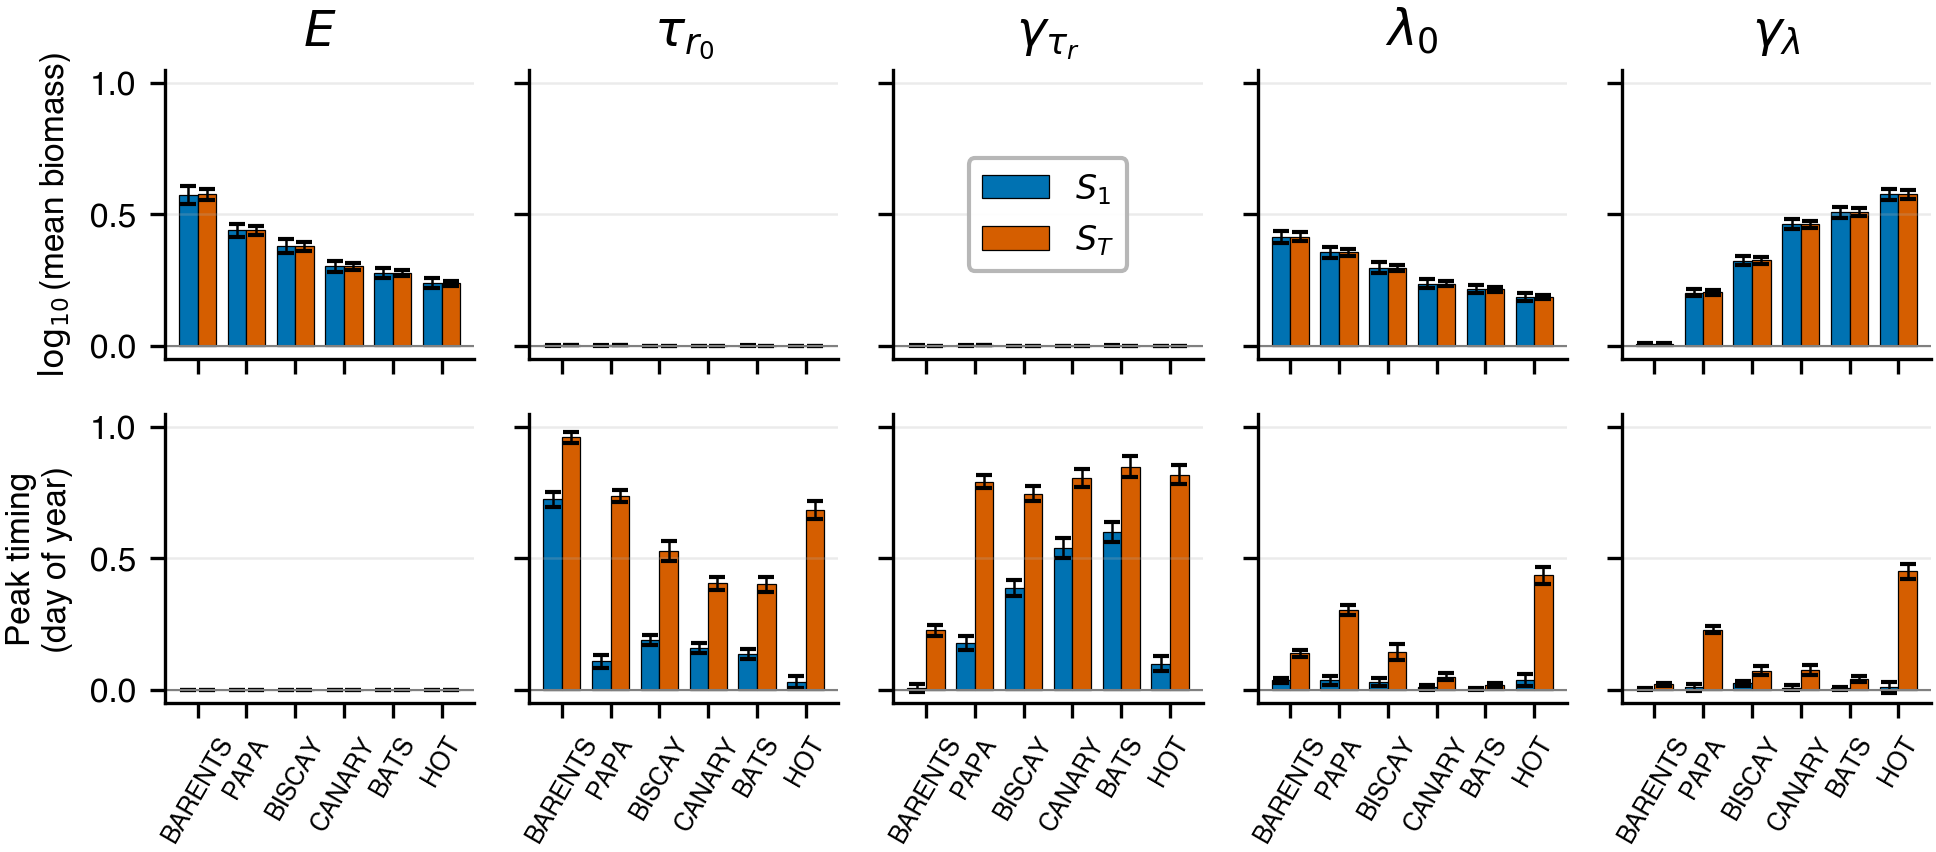
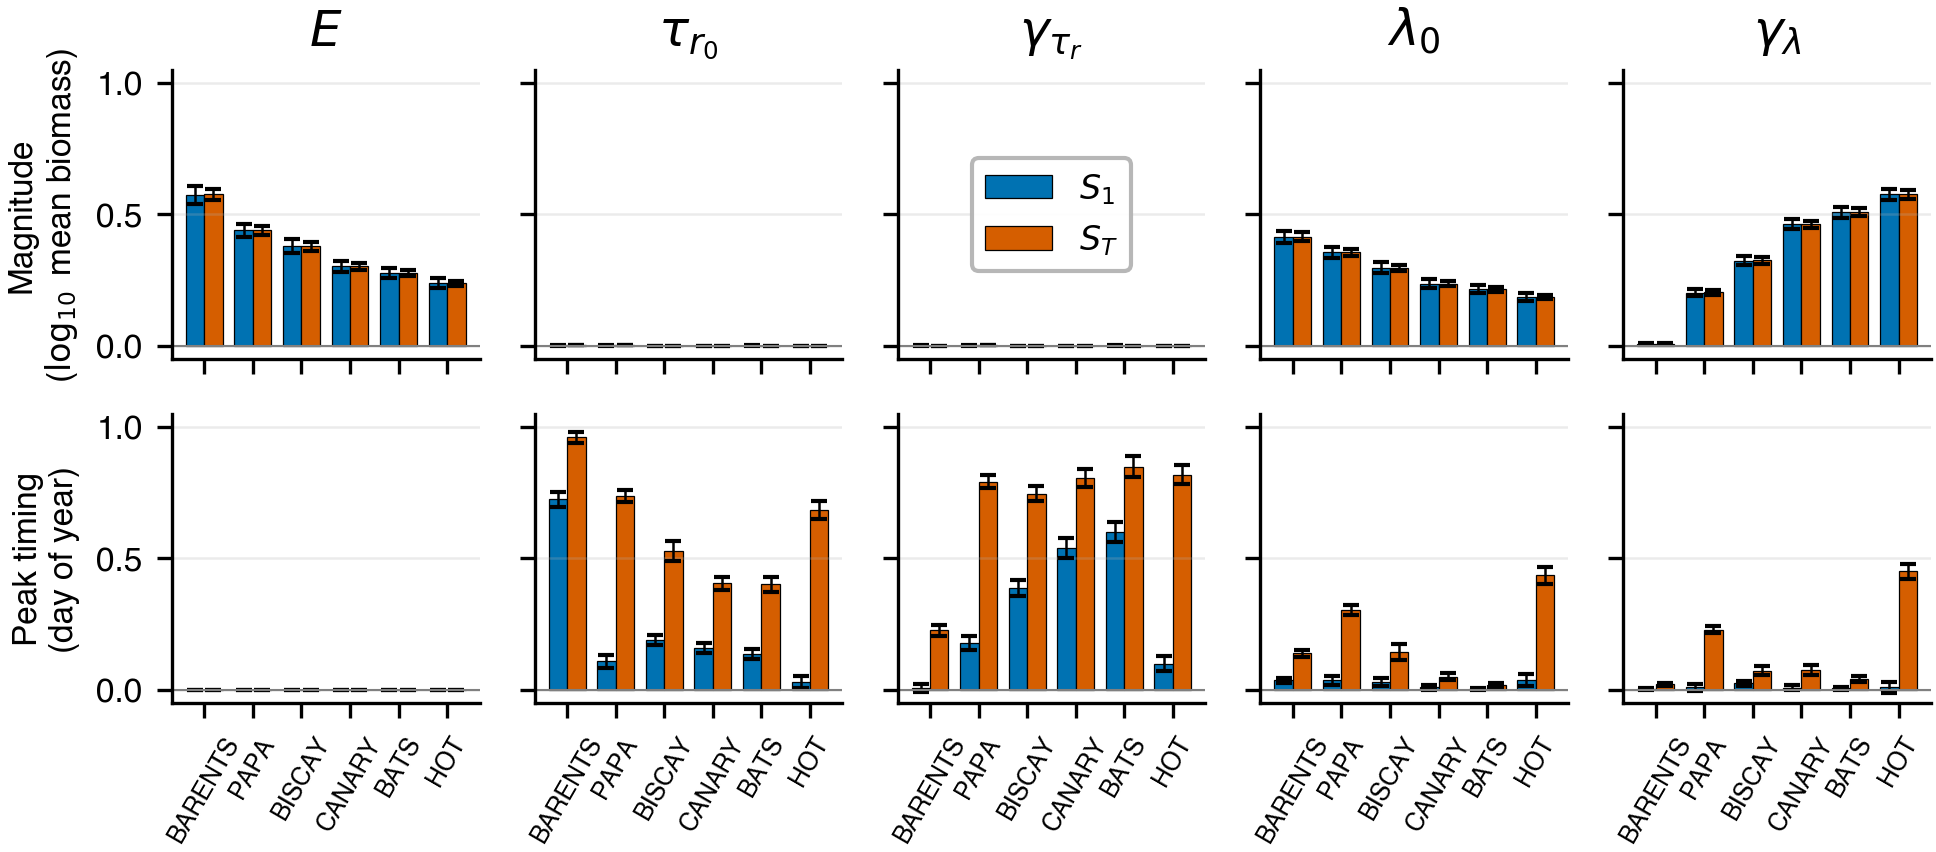
Fig 6: label the magnitude panel
Add a Magnitude label to the log10(mean biomass) panel of fig06_sobol.py, symmetric with the Peak timing panel, and regenerate Figure_6.

diff --git a/scripts/figures/fig06_sobol.py b/scripts/figures/fig06_sobol.py
@@ -18,7 +18,7 @@ import pandas as pd
 from seapopym_repro import figstyle as fs, paths
 
 CHOSEN_METRICS = ["log10(mean)", "argmax"]
-METRIC_LABEL = {"log10(mean)": r"$\log_{10}$(mean biomass)", "argmax": "Peak timing\n(day of year)"}
+METRIC_LABEL = {"log10(mean)": "Magnitude\n" r"($\log_{10}$ mean biomass)", "argmax": "Peak timing\n(day of year)"}
 C_S1, C_ST = fs.BLUE, fs.ORANGE   # S1 vs ST, same blue/orange pair as Figure 5
 
 d = pd.read_csv(paths.PRODUCTS / "sobol_indices.csv")
